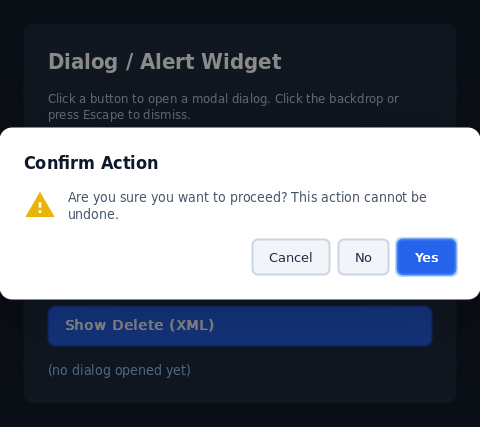
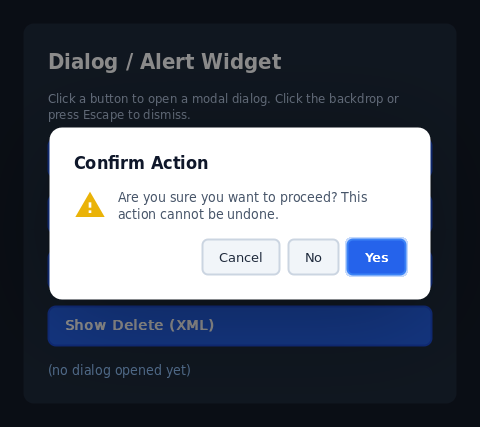
Examples: narrow the dialog panel below the window width
dialog_example opens a 480px window and .panel carried max-width: 480px,
so the panel spanned the whole window whatever it held and the backdrop
never showed beside it. A 48px blur reaches three times that past the
panel edge, which put the whole of the left and right shadow outside the
window.

The panel now sits between 260 and 380, leaving the backdrop and the
shadow room in the window the example opens.

Changed region(s): [[0.0, 0.274, 1.0, 0.7002], [0.4062, 0.548, 0.6875, 0.6698]]

diff --git a/examples/css/dialog_example.css b/examples/css/dialog_example.css
@@ -76,8 +76,8 @@
   align-items: stretch;
   gap: 16px;
   padding: 24px;
-  min-width: 340px;
-  max-width: 480px;
+  min-width: 260px;
+  max-width: 380px;
   background-color: rgb(255, 255, 255);
   border-radius: 12px;
   box-shadow: 0px 16px 48px 0px rgba(0, 0, 0, 0.30);
